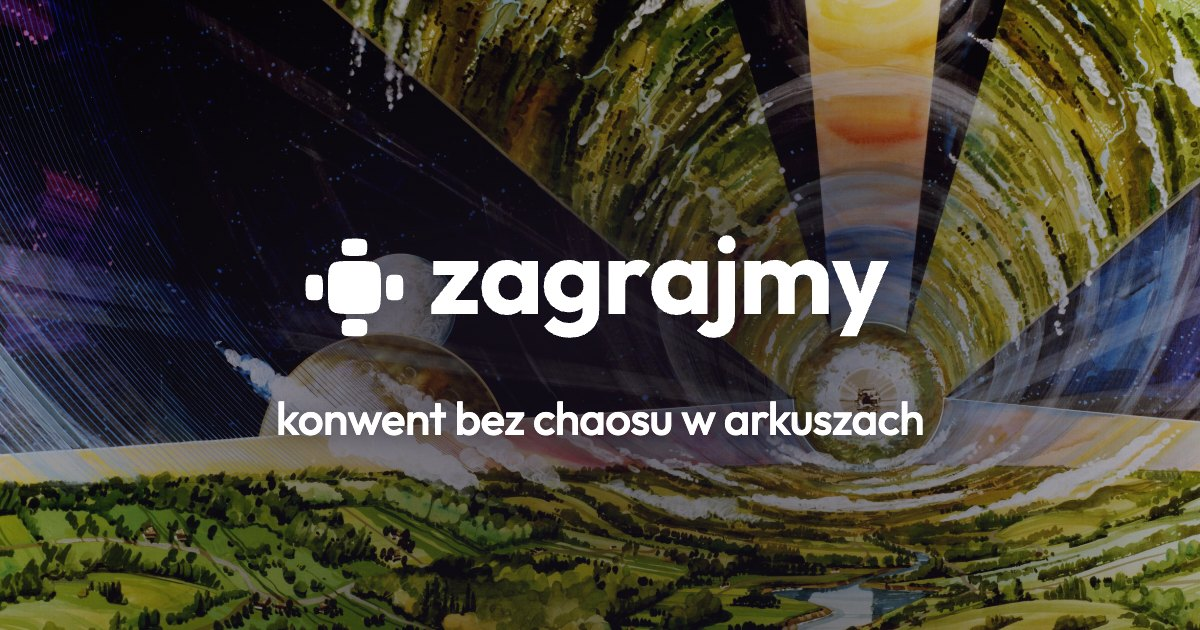
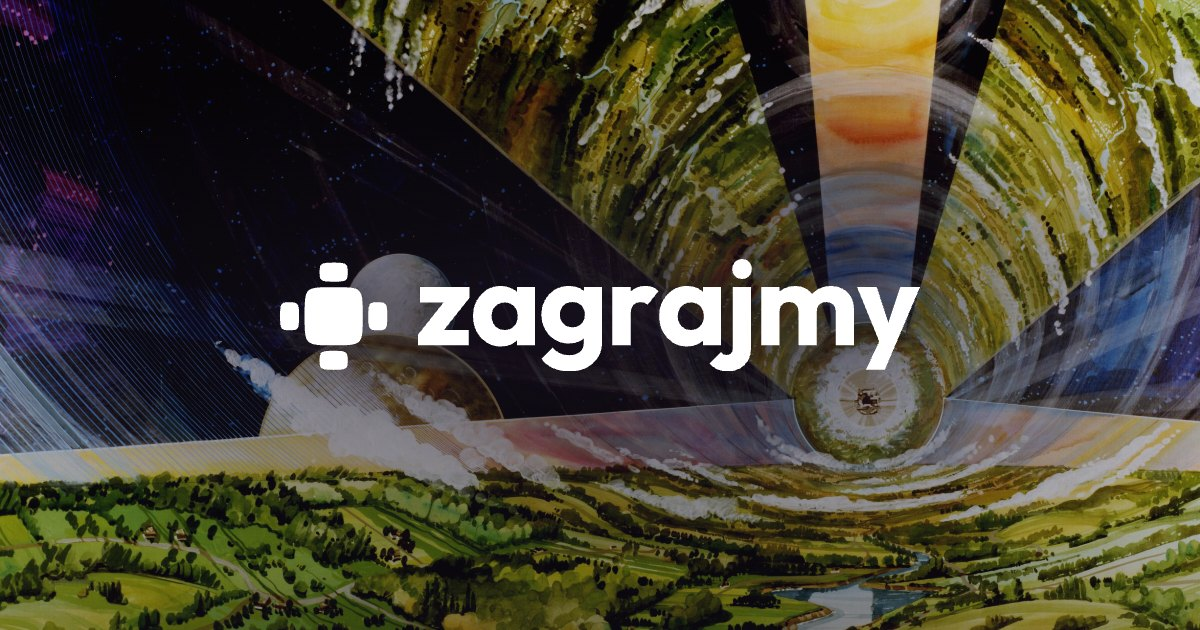
feat(brand): drop the tagline from the link-preview card
The card baked a Polish sentence that og:description already carries in the
reader's own locale, so every unfurl showed it twice -- once as unselectable
pixels. Dropping it makes the card locale-independent and takes the webfont
with it: nothing on the card sets type any more, so both Outfit subsets and
the @font-face blocks go.

The lockup's exported viewBox padded the ink asymmetrically (10.29 left,
12.52 right; 20.28 top, 14.41 bottom), which does not read while a tagline
sits underneath but does when the lockup is the whole card. Tighten the
viewBox to the ink so centring the element centres the artwork: the rendered
JPEG now measures 280px either side and 259px above and below.

With the shorter content block the scrim core shrinks from 62% to 42% of the
frame, showing more of the painting. Measured contrast floor under the lockup
box is 3.65:1 with 0% of it under 3:1 (was 3.85:1 at the old spread).

Also from review: add the doctype the card was rendering without (quirks
mode), and swap the painting-readiness fetch() -- which file:// pages are not
guaranteed to allow -- for an img.decode() that answers about the pixels and
fails the build with a real message instead of a polling timeout.

Rendered og:image assertions move out of the Python view tests into
tests/e2e, per the testing rules: the default brand card in link-preview.spec
and the event-cover override in cover-images.spec, where an upload already
runs.

diff --git a/src/ludamus/static/og-card/index.html b/src/ludamus/static/og-card/index.html
@@ -1,49 +1,29 @@
+<!DOCTYPE html>
 <!--
   Source of truth for the 1200x630 link-preview card. scripts/og-image/build.mjs
   screenshots this page to src/ludamus/static/og-image.jpg; /design/ frames it
   live, so the panel there cannot drift from what the card is built from.
 
   Background: Rick Guidice's cylindrical-colony painting for NASA Ames
-  (public domain, NASA), downscaled to 2600px. Outfit is SIL OFL 1.1.
+  (public domain, NASA), downscaled to 2600px. The card sets no type -- the
+  tagline lives in og:description, which unfurls render under the image in the
+  reader's locale -- so it needs no webfont.
 -->
 <meta charset="utf-8">
 <title>zagrajmy</title>
 <style>
-    /* Self-hosted: a CDN font fails silently offline and bakes a fallback face
-     into the shipped JPEG. Only the tagline needs it -- the lockup is paths. */
-    @font-face {
-        font-family: "Outfit";
-        font-style: normal;
-        font-weight: 500;
-        src: url("outfit-500-latin.woff2") format("woff2");
-        unicode-range: U+0000-00FF, U+0131, U+0152-0153, U+02BB-02BC, U+02C6, U+02DA,
-            U+02DC, U+0304, U+0308, U+0329, U+2000-206F, U+20AC, U+2122, U+2191,
-            U+2193, U+2212, U+2215, U+FEFF, U+FFFD;
-    }
-
-    @font-face {
-        font-family: "Outfit";
-        font-style: normal;
-        font-weight: 500;
-        src: url("outfit-500-latin-ext.woff2") format("woff2");
-        unicode-range: U+0100-02BA, U+02BD-02C5, U+02C7-02CC, U+02CE-02D7,
-            U+02DD-02FF, U+0304, U+0308, U+0329, U+1D00-1DBF, U+1E00-1E9F,
-            U+1EF2-1EFF, U+2020, U+20A0-20AB, U+20AD-20C0, U+2113, U+2C60-2C7F,
-            U+A720-A7FF;
-    }
-
     :root {
         /* Brand token, mirrored from client/src/index.css. */
         --warm-900: #252220;
 
-        /* --- scrim knobs (tweak in the widget, paste back here) --- */
+        /* --- scrim knobs --- */
         --scrim-tint: 24 18 32;
         /* rgb triplet the scrim darkens toward */
         --scrim-opacity: 0.72;
         /* alpha at the centre of the core */
         --scrim-spread-x: 68%;
         /* core half-width */
-        --scrim-spread-y: 62%;
+        --scrim-spread-y: 42%;
         /* core half-height */
         --scrim-mid-stop: 42%;
         /* where the falloff reaches half strength */
@@ -54,7 +34,7 @@
         --scrim-vignette: 0.3;
         /* extra weight pulled into the bottom edge */
 
-        /* --- text shadow knobs --- */
+        /* --- lockup shadow knobs --- */
         --text-shadow-blur: 1.625rem;
         --text-shadow-opacity: 0.62;
         --text-shadow-y: 0.125rem;
@@ -89,7 +69,6 @@
         width: 75rem;
         height: 39.375rem;
         background: var(--warm-900);
-        font-family: "Outfit", system-ui, sans-serif;
         isolation: isolate;
     }
 
@@ -105,11 +84,13 @@
         transform-origin: center;
     }
 
-    /* Three stacked passes: an elliptical core centred on the content, a uniform
+    /* Three stacked passes: an elliptical core centred on the lockup, a uniform
      floor so mid-tones in the painting cannot creep up under the wordmark, and
      a bottom vignette that seats the card on darker ground. The core is radial
-     rather than a side wedge because the type is centred over the brightest
-     part of the painting -- the cylinder's end cap. */
+     rather than a side wedge because the lockup sits over the brightest part of
+     the painting -- the cylinder's end cap. Measured contrast floor under the
+     lockup box is 3.65:1, clearing the 3:1 bar for large text; without the
+     scrim it is 1.09:1. */
     .card__scrim {
         position: absolute;
         inset: 0;
@@ -131,12 +112,8 @@
         flex-direction: column;
         align-items: center;
         justify-content: center;
-        gap: 1.125rem;
         padding: 0 4.5rem;
-        text-align: center;
         color: #fff;
-        text-shadow:
-            0 var(--text-shadow-y) var(--text-shadow-blur) rgb(var(--scrim-tint) / var(--text-shadow-opacity));
     }
 
     /* The lockup ships as outlined paths, so it needs no webfont to be correct. */
@@ -146,20 +123,13 @@
         display: block;
         filter: drop-shadow(0 var(--text-shadow-y) var(--text-shadow-blur) rgb(var(--scrim-tint) / var(--text-shadow-opacity)));
     }
-
-    .card__tagline {
-        font-size: 2.875rem;
-        font-weight: 500;
-        line-height: 1.18;
-        letter-spacing: -0.015em;
-    }
 </style>
 <div class="card">
     <div class="card__art"></div>
     <div class="card__scrim"></div>
     <div class="card__content">
         <svg class="card__lockup"
-             viewBox="0 0 258 76"
+             viewBox="10.29 20.28 235.19 41.32"
              fill="none"
              xmlns="http://www.w3.org/2000/svg"
              role="img">
@@ -180,6 +150,5 @@
             <path transform="translate(184.77 52) scale(0.044000 -0.044000)" d="M54 0V486H207V0ZM365 0V284Q365 320.5 342.5 341.0Q320 361.5 286.5 361.5Q263.5 361.5 245.5 352.25Q227.5 343 217.25 325.75Q207 308.5 207 284L147.5 310Q147.5 367.5 172.75 409.0Q198 450.5 241.0 473.25Q284 496 338 496Q388.5 496 429.25 473.0Q470 450 494.0 408.75Q518 367.5 518 310.5V0ZM676 0V284Q676 320.5 653.5 341.0Q631 361.5 597.5 361.5Q575 361.5 556.75 352.25Q538.5 343 528.25 325.75Q518 308.5 518 284L429.5 295.5Q432 357.5 459.25 402.25Q486.5 447 532.25 471.5Q578 496 635 496Q690.5 496 734.25 472.5Q778 449 803.5 405.5Q829 362 829 301V0Z" fill="currentColor" />
             <path transform="translate(222.18 52) scale(0.044000 -0.044000)" d="M203.5 -2.5 4 486H168.5L295.5 98.5H235L365 486H529.5L321.5 -2.5ZM78.5 -205 224.5 110 321.5 -2.5 235.5 -205Z" fill="currentColor" />
         </svg>
-        <p class="card__tagline">konwent bez chaosu w&nbsp;arkuszach</p>
     </div>
 </div>

diff --git a/tests/e2e/tests/design.spec.ts b/tests/e2e/tests/design.spec.ts
@@ -39,15 +39,22 @@ test.describe("Design system page", () => {
     await expect(toasts).toHaveCount(0);
   });
 
-  test("frames the link-preview card in Outfit", async ({ page }) => {
+  test("frames the link-preview card with the lockup centred", async ({ page }) => {
     await page.goto("/design/");
 
     const card = page.frameLocator('iframe[src*="og-card"]');
-    const tagline = card.locator(".card__tagline");
-    await expect(tagline).toHaveText("konwent bez chaosu w\u00a0arkuszach");
-    // The card self-hosts Outfit; a broken font path silently falls back.
-    await expect
-      .poll(() => tagline.evaluate(() => document.fonts.check("500 46px Outfit")))
-      .toBe(true);
+    await expect(card.locator(".card__lockup")).toBeVisible();
+    // The lockup is the whole card, so an off-centre viewBox shows up as a
+    // lopsided margin rather than as anything failing to render.
+    const offset = await card.locator(".card__lockup").evaluate((svg) => {
+      const lockup = svg.getBoundingClientRect();
+      const frame = document.querySelector(".card").getBoundingClientRect();
+      return {
+        x: Math.abs(lockup.left - frame.left - (frame.right - lockup.right)),
+        y: Math.abs(lockup.top - frame.top - (frame.bottom - lockup.bottom)),
+      };
+    });
+    expect(offset.x).toBeLessThan(1);
+    expect(offset.y).toBeLessThan(1);
   });
 });

diff --git a/tests/e2e/tests/cover-images.spec.ts b/tests/e2e/tests/cover-images.spec.ts
@@ -59,6 +59,22 @@ test.describe("Event cover image upload", () => {
     await expect(shownFileName(coverDropzone(page), "cover.png")).toBeVisible();
   });
 
+  test("event cover overrides the brand card in link previews", async ({ page }) => {
+    await page.goto("/event/lakeside-weekend/");
+
+    // Object pages override og:image in a standalone block, which djlint
+    // reflows onto its own line, so the rendered attribute carries the
+    // template's indentation. Crawlers strip it; the assertion has to as well.
+    const ogImage = (
+      await page.locator('meta[property="og:image"]').getAttribute("content")
+    )?.trim();
+
+    // Crawlers fetch og:image by URL, so a relative value yields no preview
+    // image at all. Uploads land under a hashed name, hence the loose tail.
+    expect(ogImage).toMatch(/^https?:\/\/.+\/media\/events\/.+\.png$/);
+    expect(ogImage).not.toContain("og-image.jpg");
+  });
+
   test("manager uploads event logo via the dropzone", async ({ page }) => {
     await installCspViolationCollector(page);
     await page.goto("/panel/event/lakeside-weekend/settings/");

diff --git a/tests/e2e/tests/link-preview.spec.ts b/tests/e2e/tests/link-preview.spec.ts
@@ -1,0 +1,26 @@
+import { expect, test } from "./helpers/fixtures";
+
+/**
+ * What a shared link unfurls as. Crawlers read the rendered head, and they
+ * fetch og:image by URL, so both have to be absolute and correct in the markup.
+ */
+test.describe("Link preview metadata", () => {
+  test("points at the absolute brand card by default", async ({ page, baseURL }) => {
+    await page.goto("/");
+
+    const expected = new URL("/static/og-image.jpg", baseURL).toString();
+    await expect(page.locator('meta[property="og:image"]')).toHaveAttribute("content", expected);
+    await expect(page.locator('meta[name="twitter:image"]')).toHaveAttribute("content", expected);
+    await expect(page.locator('meta[name="twitter:card"]')).toHaveAttribute(
+      "content",
+      "summary_large_image",
+    );
+  });
+
+  test("serves the brand card at 1200x630", async ({ request, baseURL }) => {
+    const response = await request.get(new URL("/static/og-image.jpg", baseURL).toString());
+
+    expect(response.status()).toBe(200);
+    expect(response.headers()["content-type"]).toContain("image/jpeg");
+  });
+});

diff --git a/tests/integration/web/test_page_metadata.py b/tests/integration/web/test_page_metadata.py
@@ -1,11 +1,10 @@
 import re
 from pathlib import Path
 
-from django.core.files.uploadedfile import SimpleUploadedFile
 from django.urls import reverse
 
 import ludamus
-from tests.integration.conftest import PNG_BYTES, EncounterFactory, EventFactory
+from tests.integration.conftest import EncounterFactory, EventFactory
 from tests.integration.utils import assert_rendered
 
 PRODUCT_PITCH = (
@@ -241,26 +240,3 @@ class TestMetaDescription:
         assert "—" not in description
         assert "|" not in description
         assert str(encounter.start_time.year) in description
-
-
-class TestMetaImage:
-    def test_defaults_to_the_absolute_brand_url(self, client):
-        response = _get_ok(client, reverse("web:events"), ["index.html"])
-
-        assert (
-            _meta_raw(response, "property", "og:image")
-            == "http://testserver/static/og-image.jpg"
-        )
-
-    def test_event_cover_wins_over_the_brand_image(self, client, sphere):
-        event = EventFactory(sphere=sphere)
-        event.cover_image = SimpleUploadedFile("cover.png", PNG_BYTES, "image/png")
-        event.save()
-
-        response = _get_ok(
-            client,
-            reverse("web:chronology:event", kwargs={"slug": event.slug}),
-            ["chronology/event.html"],
-        )
-
-        assert _meta(response, "property", "og:image").endswith(event.cover_image.url)

diff --git a/tests/integration/web/chronology/test_event_page.py b/tests/integration/web/chronology/test_event_page.py
@@ -8,7 +8,6 @@ import responses
 from django.contrib import messages
 from django.core.files.uploadedfile import SimpleUploadedFile
 from django.db import connection
-from django.test import override_settings
 from django.test.utils import CaptureQueriesContext
 from django.urls import resolve, reverse
 from django.utils import timezone
@@ -1144,23 +1143,6 @@ class TestEventPageView:
             context_data=event_page_context(event, url=self._get_url(event.slug)),
             template_name=["chronology/event.html"],
         )
-        assert event.cover_image_url.encode() in response.content
-
-    @override_settings(MEDIA_URL="https://cdn.example.test/media/")
-    def test_event_cover_image_used_as_absolute_social_metadata(self, client, event):
-        event.cover_image = SimpleUploadedFile(
-            "cover.png", PNG_BYTES, content_type="image/png"
-        )
-        event.save()
-
-        response = client.get(self._get_url(event.slug))
-
-        content = response.content.decode()
-        absolute_url = event.cover_image_url
-        assert absolute_url.startswith("http")
-        assert absolute_url in content
-        assert "zagrajmy.net/static/og-image.jpg" not in content
-        assert f"testserver{absolute_url}" not in content
 
     def test_session_card_hides_age_pill_when_min_age_zero(
         self, agenda_item, client, event

diff --git a/scripts/impeccable_lint.py b/scripts/impeccable_lint.py
@@ -25,14 +25,11 @@ IMPECCABLE_SPEC = "github:pbakaus/impeccable#346ce25952a6d4150433e8fb1369cb59571
 # .claude/ and .agents/: vendored agent skills. impeccable's own detector
 # carries the CSS patterns it hunts for as string literals, so scanning it
 # reports impeccable's rulebook as four gradient-text findings.
-# static/og-card/: white type over a painting, with a measured scrim doing the
-# work; the detector sees no background colour and reads it as white-on-white.
 IGNORE_PATH_SUBSTRINGS: tuple[str, ...] = (
     "e2e/playwright-report/",
     "tailwind.min.js",
     ".claude/",
     ".agents/",
-    "static/og-card/",
 )
 # tiny-text: design opinion we don't share.
 # single-font: the project deliberately uses one brand font (Outfit)
